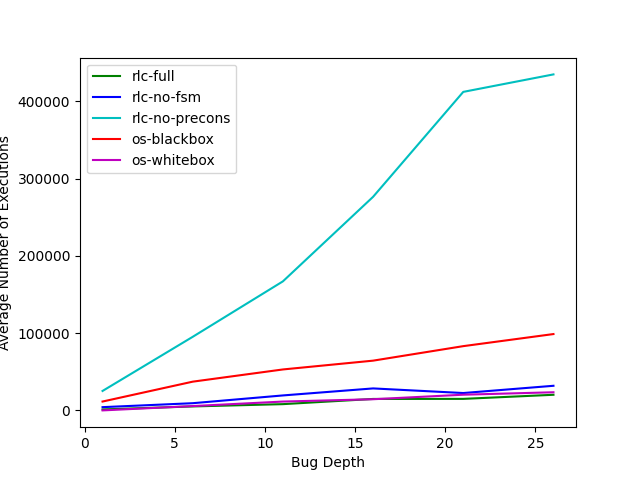
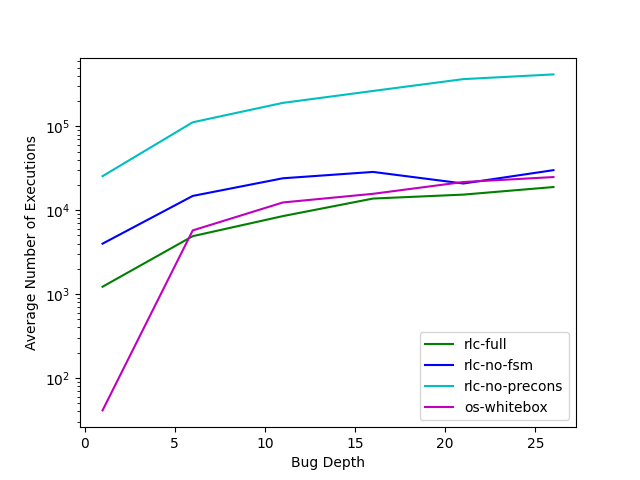
fix the error in os blackbox

diff --git a/tic_tac_toe/measure.py b/tic_tac_toe/measure.py
@@ -4,8 +4,8 @@ import time
 import matplotlib.pyplot as plt
 
 REPEAT_COUNT = 4
-fuzzers = ['rlc_tic_tac_toe', 'rlc_tic_tac_toe_no_fsm','open_spiel_whitebox_tic_tac_toe', 'open_spiel_blackbox_tic_tac_toe'] #  'rlc_tic_tac_toe_no_precons', 'rlc_tic_tac_toe_no_improvements', 
-bug_depths = range(1, 11)
+fuzzers = ['rlc_tic_tac_toe', 'rlc_tic_tac_toe_no_fsm','open_spiel_whitebox_tic_tac_toe', 'open_spiel_blackbox_tic_tac_toe', 'rlc_tic_tac_toe_no_precons', 'rlc_tic_tac_toe_no_improvements' ] 
+bug_depths = range(1, 10)
 
 time_measurements = {fuzzer: {} for fuzzer in fuzzers}
 execution_count_measurements = {fuzzer: {} for fuzzer in fuzzers}
@@ -62,7 +62,7 @@ for bug_depth in bug_depths:
     ax.plot(processed_depths, average_count_measurements['rlc_tic_tac_toe_no_improvements'], 'y-', label='rlc-blackbox')
     ax.plot(processed_depths, average_count_measurements['open_spiel_blackbox_tic_tac_toe'], 'r-', label='os-blackbox')
     ax.plot(processed_depths, average_count_measurements['open_spiel_whitebox_tic_tac_toe'], 'm-', label='os-whitebox')
-
+    plt.yscale("log")
     plt.xlabel('Bug Depth')
     plt.ylabel('Average Number of Executions')
 

diff --git a/blackjack/measure.py b/blackjack/measure.py
@@ -60,9 +60,9 @@ for bug_depth in bug_depths:
     ax.plot(processed_depths, average_count_measurements['rlc_blackjack_no_fsm'], 'b-', label='rlc-no-fsm')
     ax.plot(processed_depths, average_count_measurements['rlc_blackjack_no_precons'], 'c-', label='rlc-no-precons')
     # ax.plot(processed_depths, average_count_measurements['rlc_blackjack_no_improvements'], 'y-', label='rlc-blackbox')
-    ax.plot(processed_depths, average_count_measurements['open_spiel_blackbox_blackjack'], 'r-', label='os-blackbox')
+    # ax.plot(processed_depths, average_count_measurements['open_spiel_blackbox_blackjack'], 'r-', label='os-blackbox')
     ax.plot(processed_depths, average_count_measurements['open_spiel_whitebox_blackjack'], 'm-', label='os-whitebox')
-
+    plt.yscale('log');
     plt.xlabel('Bug Depth')
     plt.ylabel('Average Number of Executions')
 

diff --git a/blackjack/buggy_blackjack.cc b/blackjack/buggy_blackjack.cc
@@ -163,7 +163,7 @@ int BuggyBlackjackState::CardValue(int card) const {
 void BuggyBlackjackState::DealCardToPlayer(int player, int card) {
   // Remove card from deck.
   auto new_end = std::remove(deck_.begin(), deck_.end(), card);
-  if (new_end == deck_.end()) ExpectedError();
+  if (new_end == deck_.end()) throw ExpectedError();
   deck_.erase(new_end, deck_.end());
 
   cards_[player].push_back(card);
